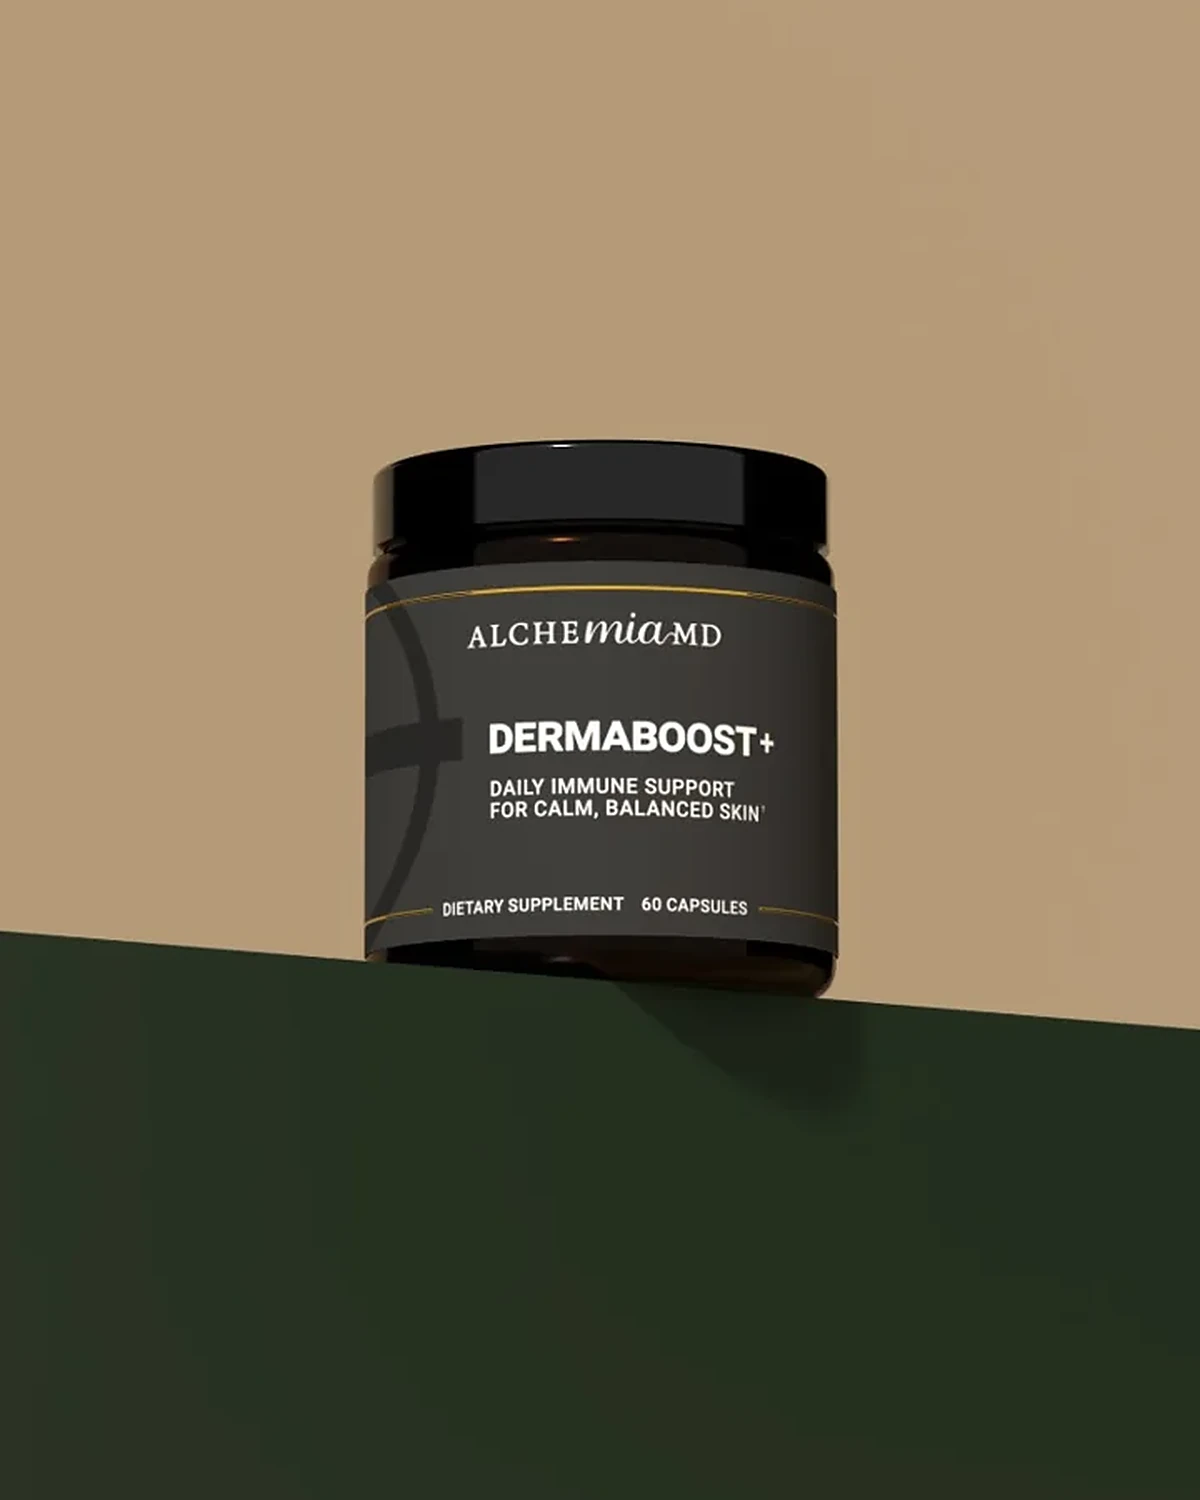
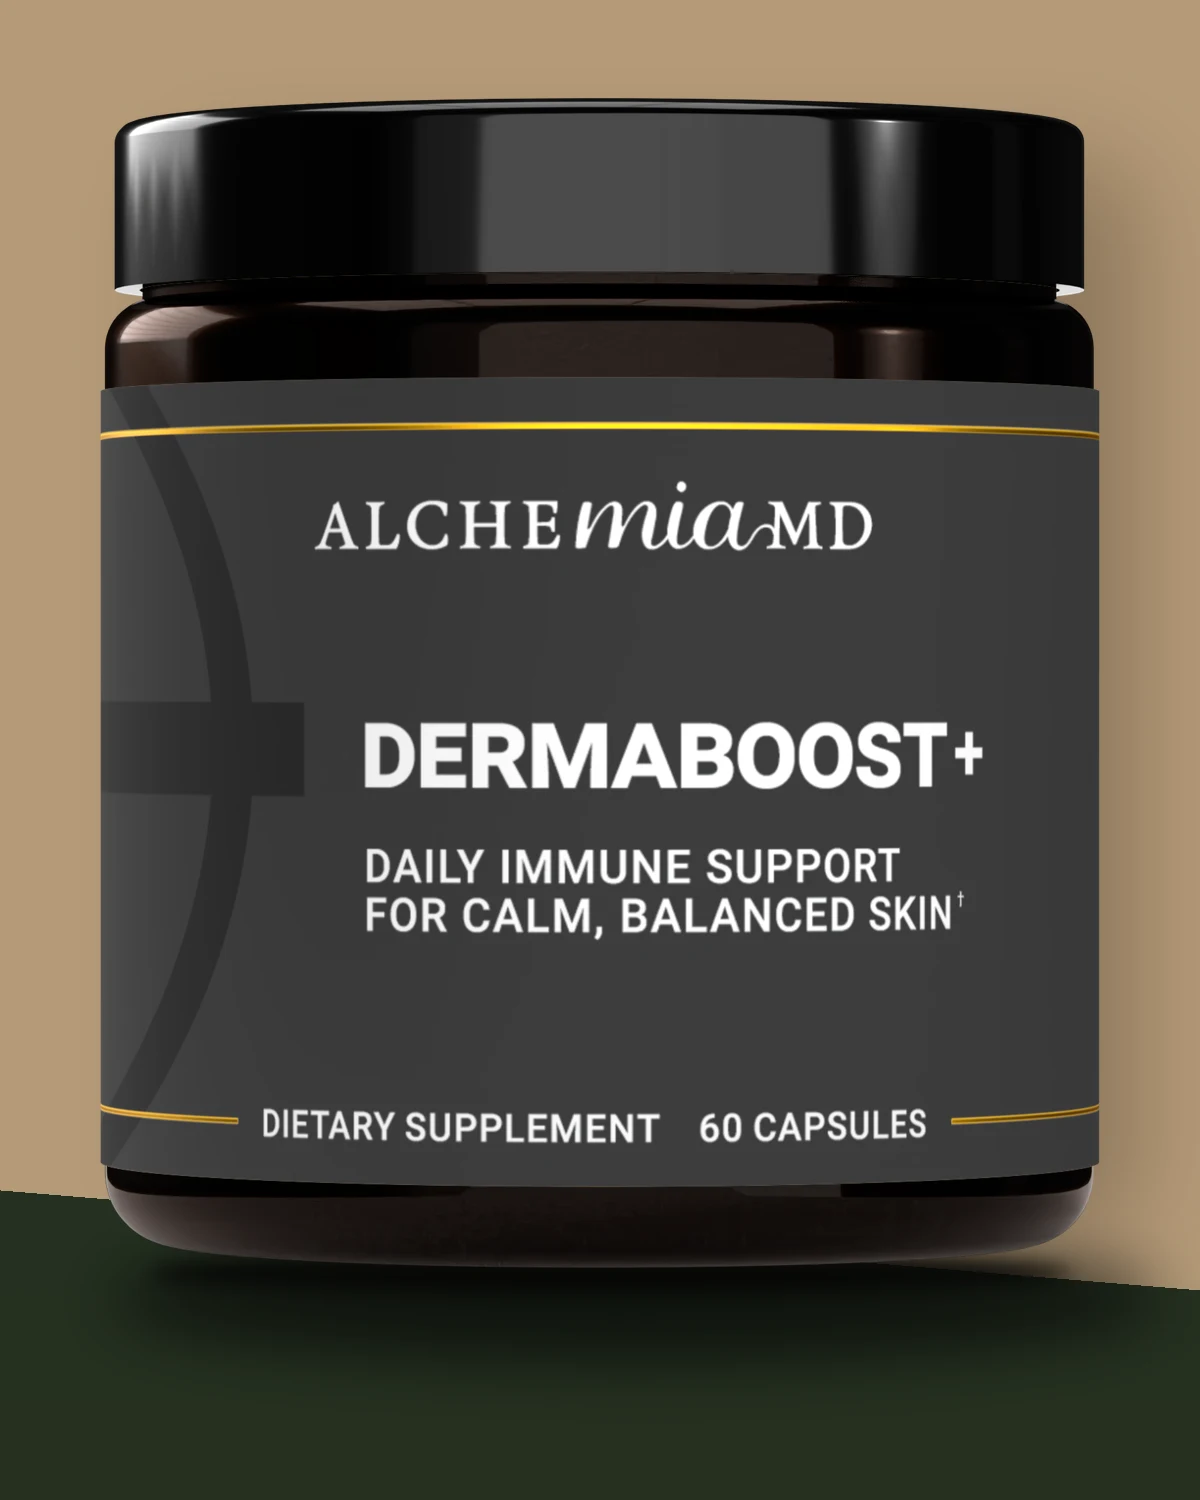
Founder timeline, card layouts, library pager, linked lifestyle tiles, larger product images
Founder: interactive timeline section. Science cards: grid, numbered rows
and split layouts with hover (varied on Balance Duo). Study library pager
matches Research worth reading. Lifestyle tiles take an optional link with
hover reveal. Single product main images rebuilt so the jar fills the frame.

Claude-Session: https://claude.ai/code/session_01MgaF6EDRU73ckStp9JY6YT

diff --git a/assets/theme.css b/assets/theme.css
@@ -1040,9 +1040,9 @@ a.edu-card[data-edu-ing] .text-link { text-decoration: underline; text-underline
 /* Main page (home) header headline: semi-bold per client review; other headlines stay at the theme headline weight */
 .hero h1, .home-hero h1 { font-weight: 600; }
 
-.sci-lib__pager { display: flex; flex-wrap: wrap; justify-content: center; gap: 8px; margin-top: 32px; }
+.sci-lib__pager { display: flex; flex-wrap: wrap; justify-content: center; align-items: center; gap: 20px; margin-top: 32px; }
 .sci-lib__pager[hidden] { display: none; }
-.sci-lib__pagebtn { min-width: 44px; padding-inline: 14px; }
+.sci-lib__pagebtn { min-width: 44px; }
 .sci-lib__pagebtn.is-active { background: var(--accent); color: #fff; border-color: var(--accent); }
 .sci-lib__pagebtn:disabled { opacity: .4; cursor: default; }
 .scheme-dark .sci-rcard__sub, .scheme-green .sci-rcard__sub, .scheme-dark .sci-rcard__summary .sci-badge, .scheme-green .sci-rcard__summary .sci-badge { color: var(--c-white); opacity: 1; }
@@ -1310,3 +1310,65 @@ a.edu-card[data-edu-ing] .text-link { text-decoration: underline; text-underline
 .ccard:hover .ccard__more, .ccard:focus-visible .ccard__more { opacity: 1; transform: none; }
 @media (hover: none) { .ccard__more { opacity: 1; transform: none; } }
 @media (prefers-reduced-motion: reduce) { .ccard, .ccard::before, .ccard__more { transition: none; } .ccard:hover { transform: none; } }
+
+/* ---------- Founder timeline, client review Nov 7 ---------- */
+.tl__track { list-style: none; margin: 0; padding: 0; position: relative; display: grid; gap: 28px; }
+.tl__item { position: relative; display: grid; grid-template-columns: 22px 1fr; column-gap: 18px; row-gap: 4px; align-items: start; }
+.tl__dot { grid-row: span 3; width: 14px; height: 14px; margin: 6px 4px 0; border-radius: 50%; border: 1.5px solid var(--accent); background: var(--bg); transition: background .3s ease, transform .3s ease, box-shadow .3s ease; }
+.tl__item:not(:last-child)::before { content: ""; position: absolute; left: 10px; top: 24px; bottom: -28px; width: 1px; background: color-mix(in srgb, var(--accent) 45%, transparent); }
+.tl__num { font-family: var(--font-callout); font-size: .7rem; font-weight: 700; letter-spacing: .18em; color: var(--accent); }
+.tl__label { font-family: var(--font-display); font-size: clamp(1.35rem, 2vw, 1.75rem); line-height: 1.15; }
+.tl__text { color: var(--body); }
+.tl__panel { display: none; }
+@media (min-width: 990px) {
+  .tl__track { grid-template-columns: repeat(var(--n), minmax(0, 1fr)); gap: 0; padding-top: 6px; }
+  .tl__track::before, .tl__track::after { content: ""; position: absolute; left: calc(50% / var(--n)); right: calc(50% / var(--n)); top: 13px; height: 1px; }
+  .tl__track::before { background: color-mix(in srgb, var(--accent) 35%, transparent); }
+  .tl__track::after { height: 2px; top: 12px; background: var(--accent); transform-origin: left; transform: scaleX(var(--p)); transition: transform .7s cubic-bezier(.2, .7, .2, 1); }
+  .tl__item { display: grid; grid-template-columns: 1fr; justify-items: center; text-align: center; gap: 10px; padding: 0 8px; cursor: pointer; }
+  .tl__item:not(:last-child)::before { display: none; }
+  .tl__item:focus { outline: none; }
+  .tl__item:focus-visible .tl__label { text-decoration: underline; text-decoration-color: var(--accent); }
+  .tl__dot { position: relative; z-index: 1; grid-row: auto; margin: 0; width: 16px; height: 16px; }
+  .tl__label { font-size: clamp(1.1rem, 1.5vw, 1.4rem); opacity: .6; transition: opacity .3s ease; }
+  .tl__item:hover .tl__label, .tl__item.is-active .tl__label { opacity: 1; }
+  .tl__item.is-done .tl__dot, .tl__item.is-active .tl__dot { background: var(--accent); }
+  .tl__item.is-active .tl__dot { transform: scale(1.35); box-shadow: 0 0 0 6px color-mix(in srgb, var(--accent) 22%, transparent); }
+  .tl__text--inline { display: none; }
+  .tl__panel { display: block; margin-top: 40px; min-height: 120px; }
+  .tl__detail { display: none; grid-template-columns: 64px 1fr; gap: 20px; max-width: 760px; margin-inline: auto; padding: 26px 30px; border-left: 2px solid var(--accent); background: var(--card); }
+  .tl__detail.is-active { display: grid; animation: venn-in .4s ease both; }
+  .tl__detail-num { font-family: var(--font-display); font-size: 2.6rem; line-height: 1; color: var(--accent); }
+  .tl__detail h3 { font-size: 1.6rem; margin-bottom: .4rem; }
+  .tl__detail p { color: var(--body); font-size: 1.05rem; }
+}
+@media (prefers-reduced-motion: reduce) { .tl__track::after { transition: none; } .tl__detail.is-active { animation: none; } }
+.tl__item.is-active .tl__dot, .tl__item.is-done .tl__dot { background: var(--accent); }
+
+/* ---------- Science cards: hover, numbered rows and split layouts (client review Nov 7) ---------- */
+.sci-card { transition: transform .4s cubic-bezier(.2, .7, .2, 1), border-color .3s ease, box-shadow .4s ease; }
+.sci-cards--grid .sci-card:hover { transform: translateY(-6px); border-color: var(--accent); box-shadow: 0 16px 36px rgba(0, 0, 0, .14); }
+.sci-cards--rows { grid-template-columns: minmax(0, 1fr) !important; gap: 0; counter-reset: scirow; border-bottom: 1px solid var(--rule); }
+.sci-cards--rows .sci-card { counter-increment: scirow; border: 0; border-top: 1px solid var(--rule); background: transparent; transition: background .3s ease; }
+.sci-cards--rows .sci-card__body { display: grid; gap: 6px 32px; padding: 26px 8px; position: relative; transition: transform .35s cubic-bezier(.2, .7, .2, 1); }
+.sci-cards--rows .sci-card__body::before { content: counter(scirow, decimal-leading-zero); font-family: var(--font-display); font-size: 2rem; line-height: 1; color: var(--accent); }
+@media (min-width: 750px) { .sci-cards--rows .sci-card__body { grid-template-columns: 70px minmax(0, 1fr) minmax(0, 1.4fr); align-items: baseline; } }
+.sci-cards--rows .sci-card:hover { background: color-mix(in srgb, var(--accent) 6%, transparent); }
+.sci-cards--rows .sci-card:hover .sci-card__body { transform: translateX(10px); }
+.sci-cards--rows .sci-card:hover h3 { color: var(--accent); }
+.sci-split { display: grid; gap: 32px; }
+@media (min-width: 990px) { .sci-split { grid-template-columns: minmax(0, .9fr) minmax(0, 1.1fr); gap: 72px; align-items: start; } .sci-split__head { position: sticky; top: 110px; } }
+.sci-cards--split { grid-template-columns: minmax(0, 1fr) !important; gap: 14px; }
+.sci-cards--split .sci-card { border-left: 2px solid var(--accent); }
+.sci-cards--split .sci-card:hover { transform: translateX(8px); box-shadow: 0 14px 30px rgba(0, 0, 0, .12); }
+@media (prefers-reduced-motion: reduce) { .sci-card, .sci-cards--rows .sci-card__body { transition: none; } .sci-card:hover, .sci-cards--rows .sci-card:hover .sci-card__body { transform: none !important; } }
+
+/* ---------- Lifestyle tiles: optional link with hover reveal (client review Nov 7) ---------- */
+.lifestyle-tile__link { display: block; color: inherit; text-decoration: none; }
+.lifestyle-tile--link .lifestyle-tile__label { transition: padding .4s ease; }
+.lifestyle-tile__more { display: inline-block; margin-top: .55rem; font-family: var(--font-callout); font-size: .66rem; font-weight: 700; letter-spacing: .18em; text-transform: uppercase; color: var(--c-gold); opacity: 0; transform: translateY(8px); transition: opacity .35s ease, transform .35s ease; }
+.lifestyle-tile__more::after { content: " \2192"; }
+.lifestyle-tile__link:hover .lifestyle-tile__more, .lifestyle-tile__link:focus-visible .lifestyle-tile__more { opacity: 1; transform: none; }
+.lifestyle-tile__link:hover .lifestyle-tile__label, .lifestyle-tile__link:focus-visible .lifestyle-tile__label { padding-bottom: 1.5rem; }
+.lifestyle-tile__link:focus-visible { outline: 2px solid var(--c-gold); outline-offset: 3px; }
+@media (hover: none) { .lifestyle-tile__more { opacity: 1; transform: none; } }

diff --git a/assets/theme.js b/assets/theme.js
@@ -152,8 +152,13 @@
         });
         pager.appendChild(b);
       }
+      // Same style as "Research worth reading": Previous · 1 / N · Next (client review Nov 7)
       btn('Previous', page - 1, { disabled: page === 0 });
-      for (var i = 0; i < pages; i++) btn(String(i + 1), i, { current: i === page, aria: 'Page ' + (i + 1) });
+      var count = document.createElement('span');
+      count.className = 'sci-spot__count';
+      count.setAttribute('aria-live', 'polite');
+      count.textContent = (page + 1) + ' / ' + pages;
+      pager.appendChild(count);
       btn('Next', page + 1, { disabled: page === pages - 1 });
     }
     function apply() {
@@ -478,5 +483,40 @@
         if (n) { e.preventDefault(); select(n, true); }
       });
     });
+  });
+})();
+
+/* Founder timeline: on scroll the milestones play through once and the line fills; hover, focus or tap shows a milestone. */
+(function () {
+  document.querySelectorAll('[data-timeline]').forEach(function (box) {
+    var items = Array.prototype.slice.call(box.querySelectorAll('.tl__item'));
+    var details = box.querySelectorAll('.tl__detail');
+    var n = items.length;
+    var timer = null;
+    var reduce = window.matchMedia && window.matchMedia('(prefers-reduced-motion: reduce)').matches;
+    function set(i) {
+      i = Number(i);
+      box.style.setProperty('--p', n > 1 ? i / (n - 1) : 1);
+      items.forEach(function (it, k) { it.classList.toggle('is-active', k === i); it.classList.toggle('is-done', k < i); it.setAttribute('aria-pressed', k === i ? 'true' : 'false'); });
+      details.forEach(function (d) { d.classList.toggle('is-active', Number(d.getAttribute('data-step')) === i); });
+    }
+    function stop() { if (timer) { clearInterval(timer); timer = null; } }
+    items.forEach(function (it) {
+      var i = it.getAttribute('data-step');
+      it.addEventListener('mouseenter', function () { stop(); set(i); });
+      it.addEventListener('focus', function () { stop(); set(i); });
+      it.addEventListener('click', function () { stop(); set(i); });
+      it.addEventListener('keydown', function (e) { if (e.key === 'Enter' || e.key === ' ') { e.preventDefault(); stop(); set(i); } });
+    });
+    function start() {
+      set(0);
+      if (reduce) return;
+      var i = 0;
+      timer = setInterval(function () { i += 1; if (i >= n) { stop(); return; } set(i); }, 2800);
+    }
+    if ('IntersectionObserver' in window) {
+      var io = new IntersectionObserver(function (entries) { entries.forEach(function (en) { if (en.isIntersecting) { start(); io.disconnect(); } }); }, { threshold: 0.4 });
+      io.observe(box);
+    } else { start(); }
   });
 })();

diff --git a/source-images/product-renders/make-lead-portraits.py b/source-images/product-renders/make-lead-portraits.py
@@ -1,0 +1,42 @@
+import sys
+from PIL import Image, ImageDraw, ImageFilter
+REPO='/home/user/dawg'
+OUT='/tmp/claude-0/-home-user-dawg/09f045ea-cfc7-52ab-b002-0d763b42995c/scratchpad/lead'
+W,H=1200,1500
+def sample(im, pts):
+    px=[im.getpixel(p) for p in pts]; return tuple(sum(c[i] for c in px)//len(px) for i in range(3))
+def make(name, src, ref, jar_w=1000):
+    ref=Image.open(ref).convert('RGB').resize((W,H))
+    wall_top=sample(ref,[(60,60),(1140,60),(600,40)]); wall_low=sample(ref,[(60,700),(1140,760)])
+    floor_top=sample(ref,[(80,1180),(1120,1260)]); floor_low=sample(ref,[(80,1460),(1120,1460)])
+    bg=Image.new('RGB',(W,H))
+    d=ImageDraw.Draw(bg)
+    # wall: vertical gradient
+    for y in range(H):
+        t=y/H; c=tuple(int(wall_top[i]*(1-t)+wall_low[i]*t) for i in range(3)); d.line([(0,y),(W,y)],fill=c)
+    # floor (ledge) polygon with diagonal front edge, vertical gradient
+    y0,y1=1190,1290  # edge at x=0 and x=W
+    floor=Image.new('RGB',(W,H)); fd=ImageDraw.Draw(floor)
+    for y in range(H):
+        t=max(0,(y-y0))/(H-y0); c=tuple(int(floor_top[i]*(1-t)+floor_low[i]*t) for i in range(3)); fd.line([(0,y),(W,y)],fill=c)
+    mask=Image.new('L',(W,H),0); ImageDraw.Draw(mask).polygon([(0,y0),(W,y1),(W,H),(0,H)],fill=255)
+    bg.paste(floor,(0,0),mask)
+    jar=Image.open(src).convert('RGBA'); jar=jar.crop(jar.getchannel('A').getbbox())
+    jh=int(jar.height*jar_w/jar.width); jar=jar.resize((jar_w,jh),Image.LANCZOS)
+    jx=(W-jar_w)//2; edge_y=y0+(y1-y0)*0.5; jy=int(edge_y+28-jh)
+    # contact shadow on the ledge
+    sh=Image.new('L',(W,H),0); ImageDraw.Draw(sh).ellipse([jx+10,int(edge_y)-4,jx+jar_w+60,int(edge_y)+120],fill=185)
+    sh=sh.filter(ImageFilter.GaussianBlur(30))
+    bg.paste(Image.new('RGB',(W,H),(6,9,7)),(0,0),sh)
+    sh2=Image.new('L',(W,H),0); ImageDraw.Draw(sh2).ellipse([jx+50,int(edge_y)+14,jx+jar_w-30,int(edge_y)+52],fill=235)
+    sh2=sh2.filter(ImageFilter.GaussianBlur(9))
+    bg.paste(Image.new('RGB',(W,H),(3,4,3)),(0,0),sh2)
+    # soft cast shadow on the wall behind, offset right
+    sw=Image.new('L',(W,H),0); ImageDraw.Draw(sw).rounded_rectangle([jx+70,jy+60,jx+jar_w+40,int(edge_y)],radius=60,fill=70)
+    sw=sw.filter(ImageFilter.GaussianBlur(45))
+    bg.paste(Image.new('RGB',(W,H),(40,32,22)),(0,0),sw)
+    bg.paste(jar,(jx,jy),jar)
+    bg.save(f'{OUT}/{name}.png'); bg.save(f'{OUT}/{name}.webp',quality=88)
+    print(name, 'jar', jar_w, 'of', W, f'{jar_w/W:.0%}', 'top', jy)
+for n,src,ref in [('product-3d-uv-shield-portrait','alchemiamd-uvshield-v1-front.png','product-3d-uv-shield-portrait.webp'),('product-3d-skinbiotic-portrait','alchemiamd-skinbiotic-v1-front.png','product-3d-skinbiotic-portrait.webp'),('product-3d-dermaboost-portrait','alchemiamd-dermaboost-v1-front.png','product-3d-dermaboost-portrait.webp')]:
+    make(n, f'{REPO}/source-images/product-renders/{src}', f'{REPO}/assets/{ref}')

diff --git a/docs/HANDOFF.md b/docs/HANDOFF.md
@@ -559,3 +559,17 @@ Full plan and status: `docs/REVIEW-2026-11-07.md`. Owner decisions: follow Heath
 - `contact-form`: new "Show mailing address" setting (off on the Contact page); image removed.
 - `product-selector`: plan heading only renders when set.
 - `feature-split`: new "Warm beige" colour option.
+
+## Heather's review, phase 2 (2026-11-08)
+New interactive pieces (all respect reduced motion, and keyboard and touch work):
+- `science-system-map` and `domain-circles` are now one interactive Venn (`[data-venn]` in theme.js). The script works out which circles the pointer is over (one, two or all three) and shows that panel. Pair blocks have an "Overlap" setting. On touch, the first tap on a product name shows its info and the second follows the link. Labels in domain circles can break lines with "|".
+- `layer-stack`: bars are buttons; hover, focus or tap highlights a layer (`[data-layers]`).
+- `flow-steps`: optional per-step "Detail" text shown in a panel, and the steps play through once on scroll (`[data-flow]`).
+- `system-finder`: new "Tabs" layout (`[data-tabs]`), used on the three product pages.
+- `compare-table`: new "Cards" style plus a per-row link, used on Bundles.
+- New `timeline-steps` section (Founder), `[data-timeline]`.
+- `science-cards`: new layout setting (grid / numbered rows / heading-left split). Every card has a hover lift.
+- `lifestyle-strip`: optional per-tile link and label.
+- The theme.js scroll-reveal list now includes `.stagger > *`.
+- The three single-product main images were rebuilt larger from the source renders.
+
